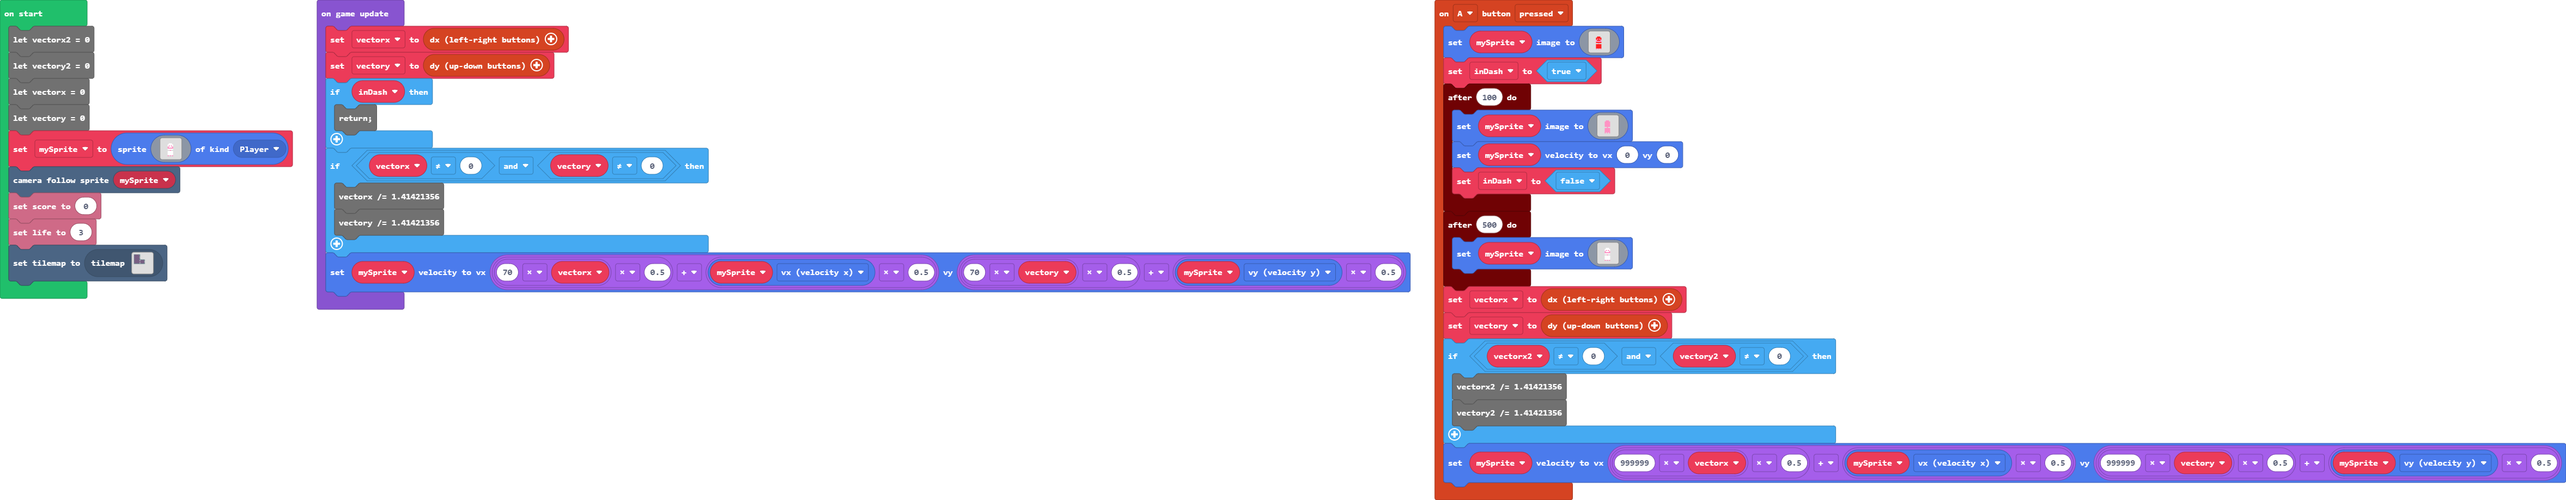
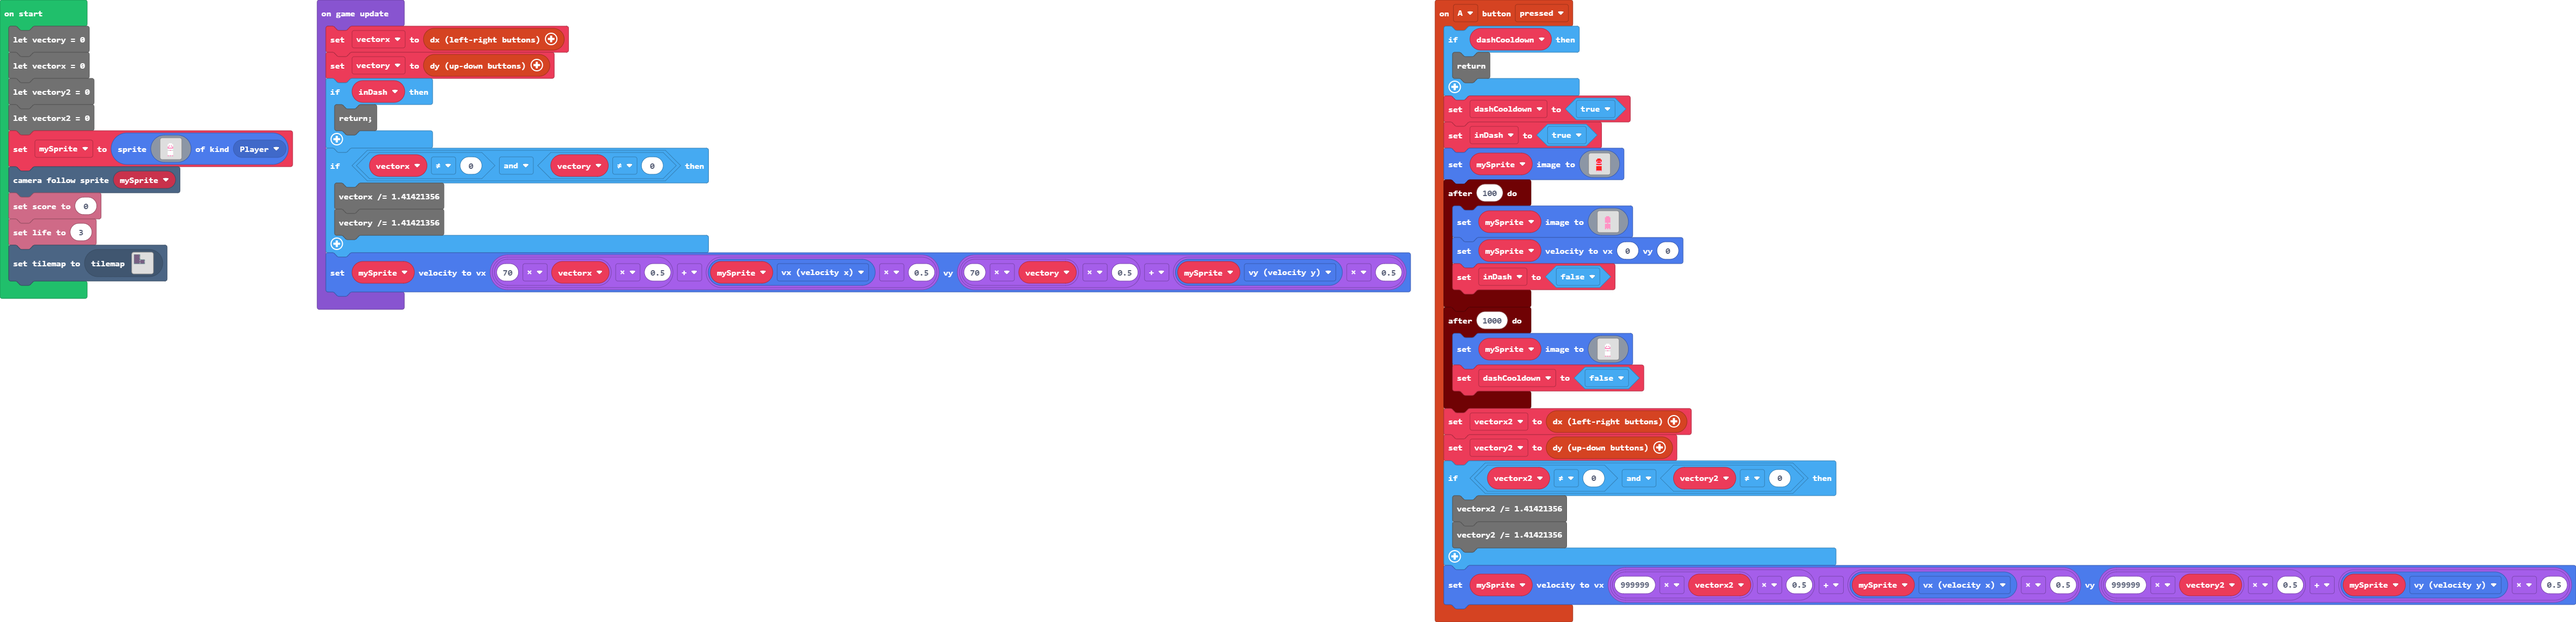
dashing fixidedadsadsadsadsadsadsa

Changed region(s): [[0.0, 0.0, 1.0, 0.976], [0.0, 0.0, 0.0624, 0.1525]]

diff --git a/main.ts b/main.ts
@@ -1,4 +1,9 @@
 controller.A.onEvent(ControllerButtonEvent.Pressed, function () {
+    if (dashCooldown) {
+        return
+    }
+    dashCooldown = true
+    inDash = true
     mySprite.setImage(img`
         . . . . . . . . . . . . . . . . 
         . . . . . . . . . . . . . . . . 
@@ -17,29 +22,30 @@ controller.A.onEvent(ControllerButtonEvent.Pressed, function () {
         . . . . . 3 . 3 . 3 . . . . . . 
         . . . . . . . . . . . . . . . . 
         `)
-    inDash = true
     timer.after(100, function () {
         mySprite.setImage(assets.image`Cooldown`)
         mySprite.setVelocity(0, 0)
         inDash = false
     })
-    timer.after(500, function () {
+    timer.after(1000, function () {
         mySprite.setImage(assets.image`Normal`)
+        dashCooldown = false
     })
-    vectorx = controller.dx()
-    vectory = controller.dy()
+    vectorx2 = controller.dx()
+    vectory2 = controller.dy()
     if (vectorx2 != 0 && vectory2 != 0) {
         vectorx2 /= 1.41421356
 vectory2 /= 1.41421356
     }
-    mySprite.setVelocity(999999 * vectorx * 0.5 + mySprite.vx * 0.5, 999999 * vectory * 0.5 + mySprite.vy * 0.5)
+    mySprite.setVelocity(999999 * vectorx2 * 0.5 + mySprite.vx * 0.5, 999999 * vectory2 * 0.5 + mySprite.vy * 0.5)
 })
 let inDash = false
+let dashCooldown = false
 let mySprite: Sprite = null
-let vectorx2 = 0
-let vectory2 = 0
-let vectorx = 0
 let vectory = 0
+let vectorx = 0
+let vectory2 = 0
+let vectorx2 = 0
 mySprite = sprites.create(img`
     . . . . . . . . . . . . . . . . 
     . . . . . . . . . . . . . . . . 

diff --git a/tilemap.g.ts b/tilemap.g.ts
@@ -67,6 +67,25 @@ namespace myTiles {
 . . . . . . . . . . . . . . . . 
 . . . . . . . . . . . . . . . . 
 `, [myTiles.transparency16], TileScale.Sixteen);
+            case "level3":
+            case "level3":return tiles.createTilemap(hex`1000100000000000000000000000000000000000000000000000000000000000000000000000000000000000000000000000000000000000000000000000000000000000000000000000000000000000000000000000000000000000000000000000000000000000000000000000000000000000000000000000000000000000000000000000000000000000000000000000000000000000000000000000000000000000000000000000000000000000000000000000000000000000000000000000000000000000000000000000000000000000000000000000000000000000000000000000000000000000000000000000000000000000000000000000000000000000`, img`
+. . . . . . . . . . . . . . . . 
+. . . . . . . . . . . . . . . . 
+. . . . . . . . . . . . . . . . 
+. . . . . . . . . . . . . . . . 
+. . . . . . . . . . . . . . . . 
+. . . . . . . . . . . . . . . . 
+. . . . . . . . . . . . . . . . 
+. . . . . . . . . . . . . . . . 
+. . . . . . . . . . . . . . . . 
+. . . . . . . . . . . . . . . . 
+. . . . . . . . . . . . . . . . 
+. . . . . . . . . . . . . . . . 
+. . . . . . . . . . . . . . . . 
+. . . . . . . . . . . . . . . . 
+. . . . . . . . . . . . . . . . 
+. . . . . . . . . . . . . . . . 
+`, [myTiles.transparency16], TileScale.Sixteen);
         }
         return null;
     })
